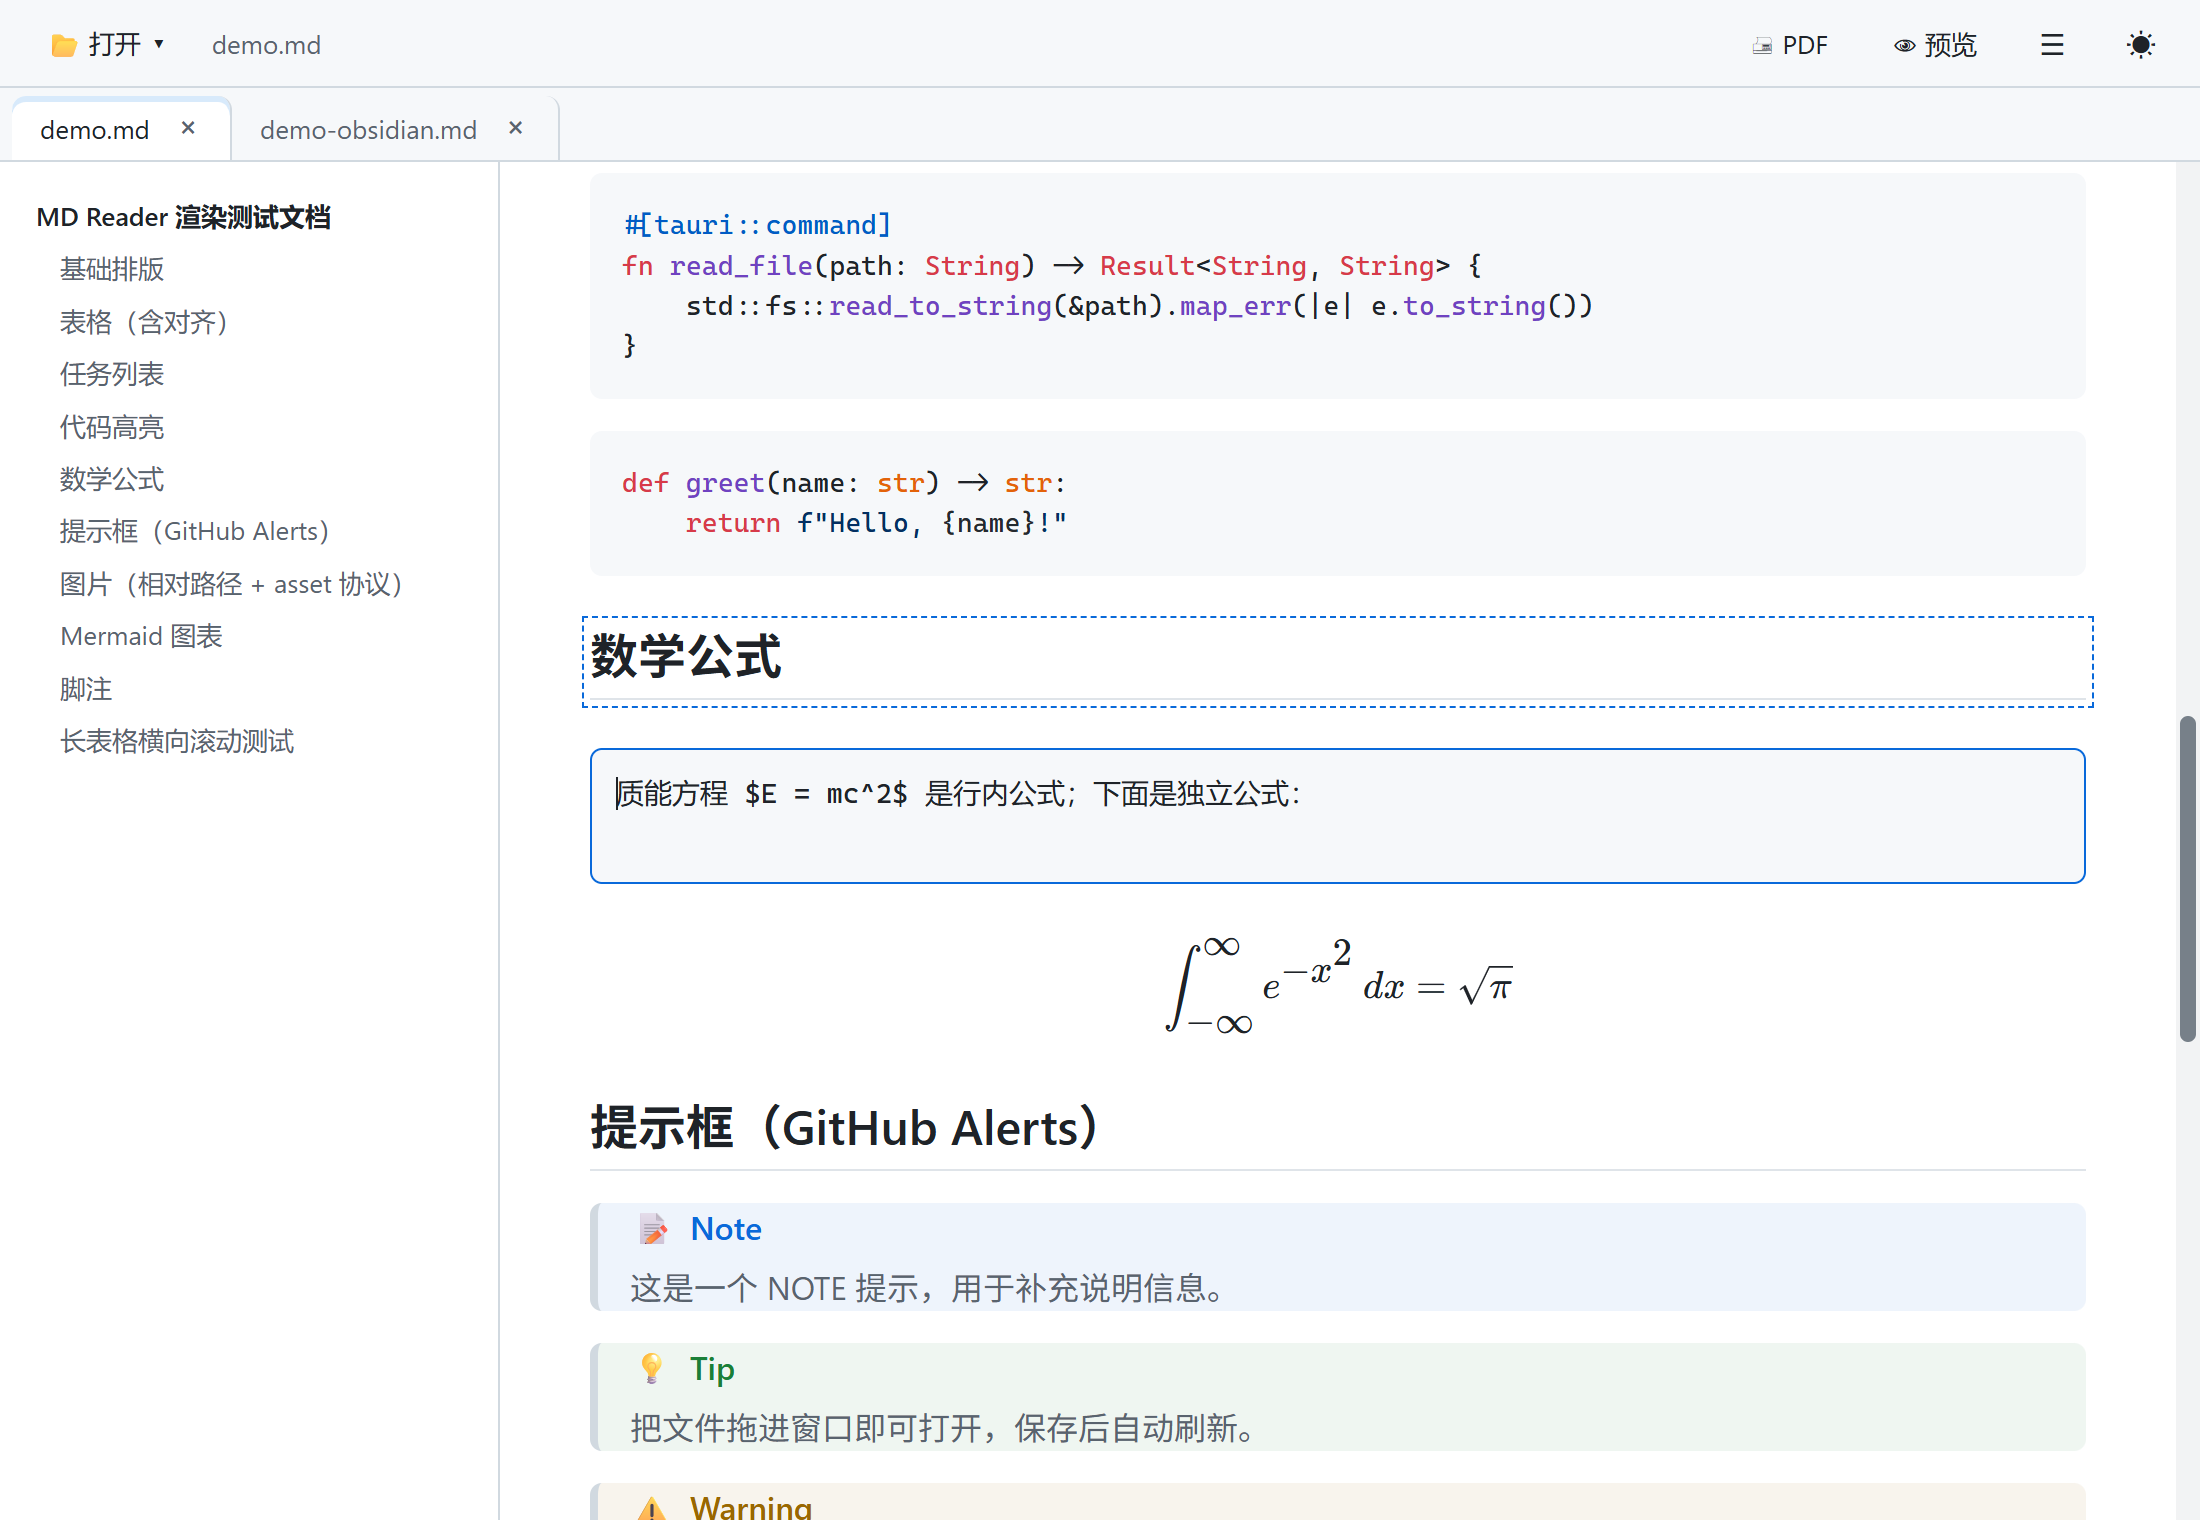
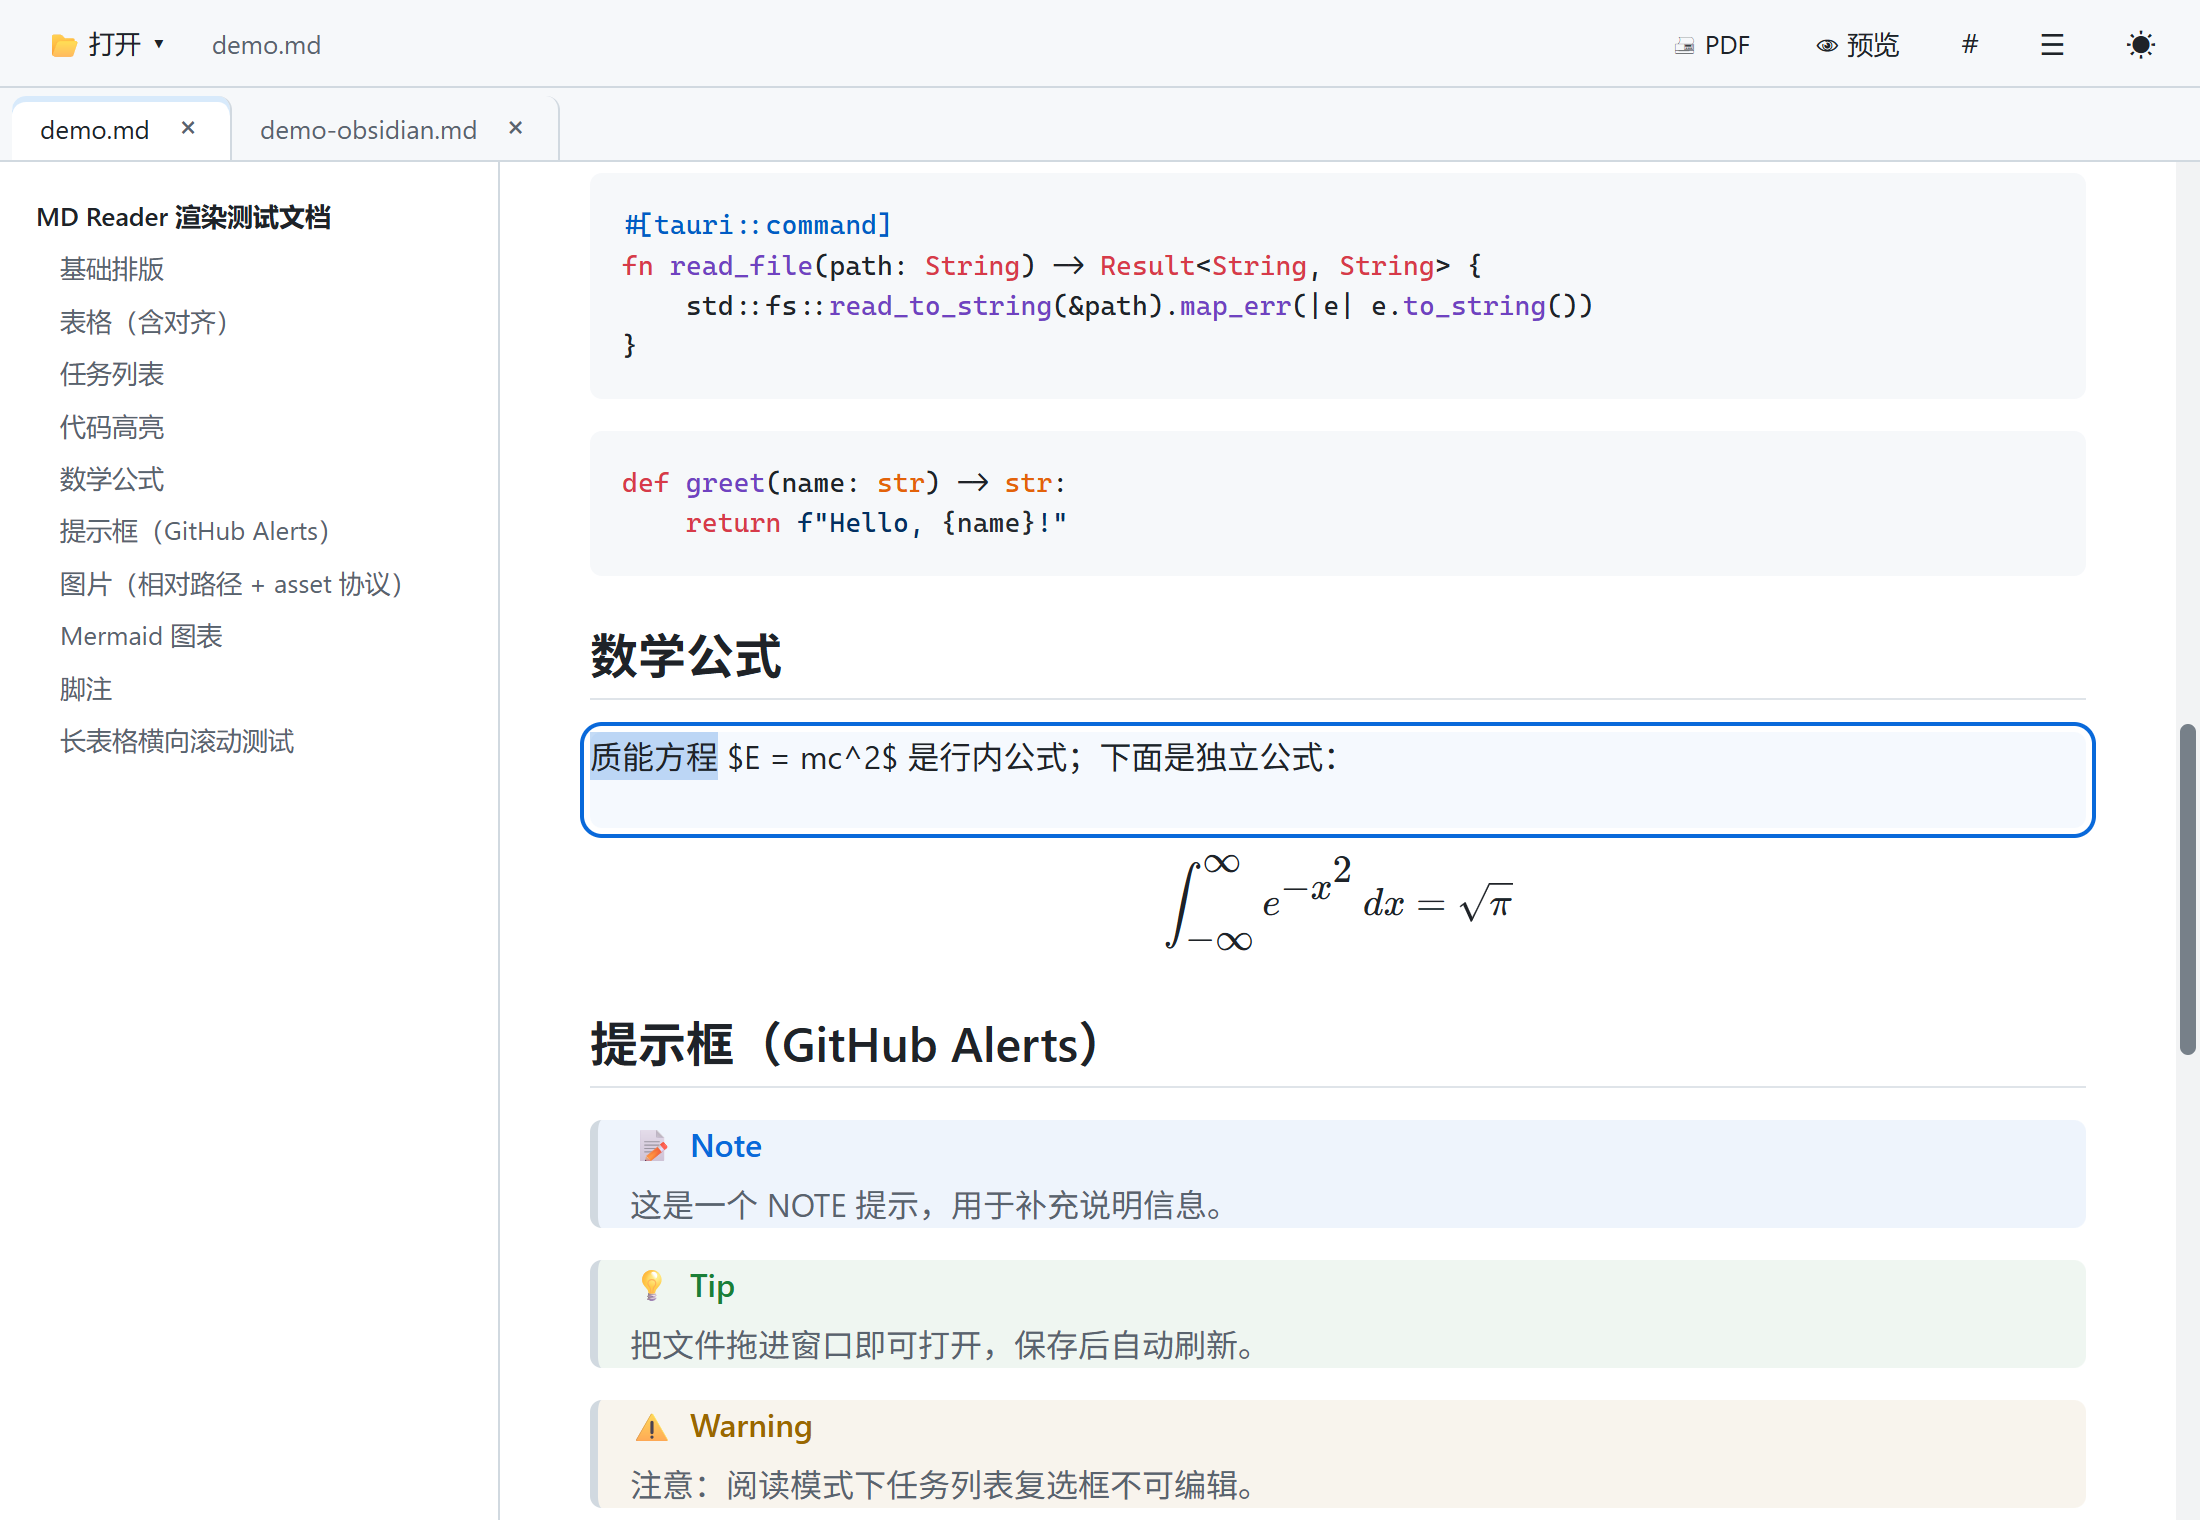
编辑态可见指示：正编辑的块外围蓝色描边（outline 不占布局），README 编辑截图更新为新编辑器样式

diff --git a/src/styles.css b/src/styles.css
@@ -498,6 +498,14 @@ body.editing #content > *:not(.block-editor):hover {
    （字号/字重/行高由 cm-editor.js 按 computed style 注入主题） */
 .block-editor {
   position: relative;
+  border-radius: 6px;
+}
+/* 编辑态的可见指示：正编辑的块周围一圈蓝框（outline 不占布局，开/关无跳动；
+   退出编辑或提交后编辑器消失，框随之消失） */
+body.editing .block-editor {
+  outline: 2px solid var(--accent);
+  outline-offset: 3px;
+  background: color-mix(in srgb, var(--accent) 4%, transparent);
 }
 .block-editor .cm-editor {
   background: transparent;
